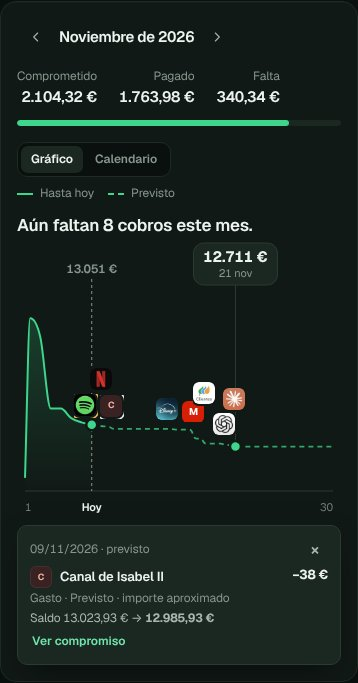
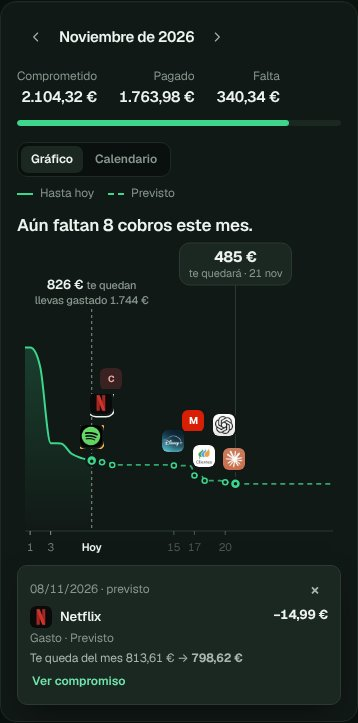
Base · gráfico del saldo sobre lo cobrado este mes (propuesta, pendiente de que Eric la apruebe para develop)
- Escala: lo que te queda de lo cobrado este mes (saldo − saldo al empezar el
  mes, mismos números del motor); si cobras el día 1 la línea arranca en lo
  cobrado.
- Línea de hoy con «X € te quedan» y «llevas gastado Y €».
- Días apuntados en la línea de abajo (realizados y, más tenues, previstos).
- Logos a distintas alturas sin pisarse, unidos a su punto con un hilo fino,
  translúcido y algo difuminado.
- Ficha y tabla accesible en la misma escala; e2e saldo actualizado.

Claude-Session: https://claude.ai/code/session_01WW9gW3XfdrtPaSgWp5DoDx

diff --git a/src/components/v5/GraficoSaldo.jsx b/src/components/v5/GraficoSaldo.jsx
@@ -6,7 +6,10 @@ import { colocarEtiquetas } from '../../lib/etiquetasGrafico'
 import { TablaDatos, useDimensiones } from './Graficos'
 import Avatar from './Avatar'
 
-// SALDO DEL MES (Base · vista Gráfico), en limpio y visual:
+// SALDO DEL MES (Base · vista Gráfico), en limpio y visual. Escala: lo que te
+// queda de lo cobrado ESTE MES (saldo − saldo al empezar el mes): empieza en 0,
+// sube con lo que cobras y baja con lo que sale. Mismos números del motor
+// (flujoDelMes/bolsas), solo medidos desde el inicio del mes.
 //  - área suave = saldo real hasta hoy; línea discontinua = previsto, que baja
 //    (o sube) en escalones redondeados en la fecha de cada cobro;
 //  - el LOGO de cada cobro previsto flota sobre su escalón (sin textos: la
@@ -55,7 +58,7 @@ function curva(p) {
   return r
 }
 
-export default function GraficoSaldo({ flujo, alto = 280, onAbrirCompromiso }) {
+export default function GraficoSaldo({ flujo, alto = 320, onAbrirCompromiso }) {
   const { ref, w } = useDimensiones(alto)
   const h = alto
   const estrecho = w < 520
@@ -64,7 +67,7 @@ export default function GraficoSaldo({ flujo, alto = 280, onAbrirCompromiso }) {
   useEffect(() => setSel(null), [flujo.clave])
 
   const LOGO = estrecho ? 22 : 26
-  const M = { izq: 8, der: 8, arriba: 64, abajo: 26 }
+  const M = { izq: 8, der: 8, arriba: 92, abajo: 26 }
   const ancho = w - M.izq - M.der
   const altoPlot = h - M.arriba - M.abajo
   const { dias, eventos, tramo } = flujo
@@ -73,7 +76,10 @@ export default function GraficoSaldo({ flujo, alto = 280, onAbrirCompromiso }) {
   const xIni = M.izq
   const xFin = M.izq + ancho
 
-  const saldos = [flujo.saldoInicial, flujo.saldoFinal, ...(flujo.saldoHoy != null ? [flujo.saldoHoy] : []), ...eventos.flatMap((e) => [e.saldoAntes, e.saldoDespues])]
+  // Base de la escala: el saldo al empezar el mes (0 = nada cobrado aún).
+  const base0 = flujo.saldoInicial
+  const rel = (v) => Math.round((v - base0) * 100) / 100
+  const saldos = [base0, flujo.saldoFinal, ...(flujo.saldoHoy != null ? [flujo.saldoHoy] : []), ...eventos.flatMap((e) => [e.saldoAntes, e.saldoDespues])]
   const lo = Math.min(...saldos)
   const hi = Math.max(...saldos)
   const aire = (hi - lo || Math.abs(hi) || 100) * 0.08
@@ -102,7 +108,8 @@ export default function GraficoSaldo({ flujo, alto = 280, onAbrirCompromiso }) {
   if (diaFinReal > 0) {
     let s = flujo.saldoInicial
     const porDia = new Map(reales.map((g) => [g.dia, g.despues]))
-    puntosReal.push([xIni, y(s)])
+    // Si el día 1 ya entra dinero (la nómina), la línea arranca ahí: en lo cobrado.
+    puntosReal.push([xIni, y(porDia.has(1) && porDia.get(1) > s ? porDia.get(1) : s)])
     for (let d = 1; d <= diaFinReal; d++) {
       if (porDia.has(d)) s = porDia.get(d)
       if (porDia.has(d) || d === diaFinReal) puntosReal.push([x(d), y(s)])
@@ -133,28 +140,49 @@ export default function GraficoSaldo({ flujo, alto = 280, onAbrirCompromiso }) {
     lineaPrev += ` L${xFin.toFixed(1)} ${cy.toFixed(1)}`
   }
 
-  // Logos de lo previsto sobre su escalón, sin pisarse (varios el mismo día:
-  // el principal con «+N»).
+  // Logos de lo previsto: encima de su punto, a distintas alturas para no
+  // pisarse, unidos al gráfico con un hilo fino (varios el mismo día: «+N»).
   const logos = useMemo(() => {
-    const items = previstos.map((g) => {
-      const principal = [...g.eventos].sort((a, b) => Math.abs(b.delta) - Math.abs(a.delta) || b.importe - a.importe)[0]
-      return { id: g.clave, x: x(g.dia), ancho: LOGO + (g.eventos.length > 1 ? 16 : 0), prioridad: Math.abs(g.despues - g.antes) + g.eventos.reduce((s, e) => s + e.importe, 0) / 1000, g, principal }
-    })
-    // Hasta 3 filas: lo que no cabe en una sube a la siguiente (nunca se pierde un logo).
-    const salida = []
-    let quedan = items
-    for (let fila = 0; fila < 3 && quedan.length; fila++) {
-      const puestas = colocarEtiquetas(quedan, { min: M.izq, max: w - M.der, separacion: 3, maxDesplazamiento: LOGO * 0.6, paso: 2 })
-      const ids = new Set(puestas.map((p) => p.id))
-      for (const p of puestas) salida.push({ ...quedan.find((i) => i.id === p.id), lx: p.x, fila })
-      quedan = quedan.filter((i) => !ids.has(i.id))
+    const items = previstos
+      .map((g) => {
+        const principal = [...g.eventos].sort((a, b) => Math.abs(b.delta) - Math.abs(a.delta) || b.importe - a.importe)[0]
+        return { id: g.clave, px: x(g.dia), py: y(g.despues), ancho: LOGO + (g.eventos.length > 1 ? 16 : 0), g, principal }
+      })
+      .sort((a, b) => a.px - b.px)
+    const puestos = []
+    for (const it of items) {
+      let nivel = 0
+      while (nivel < 4 && puestos.some((p) => p.nivel === nivel && Math.abs(p.px - it.px) < (p.ancho + it.ancho) / 2 + 4)) nivel++
+      const cy = Math.max(M.arriba - 4 + LOGO / 2, it.py - 24 - nivel * (LOGO + 10))
+      puestos.push({ ...it, nivel, lx: Math.min(Math.max(it.px, M.izq + it.ancho / 2), w - M.der - it.ancho / 2), cy })
     }
-    return salida
-  }, [previstos.map((g) => g.clave).join('|'), w, flujo.clave]) // eslint-disable-line react-hooks/exhaustive-deps
+    return puestos
+  }, [previstos.map((g) => g.clave + g.despues).join('|'), w, flujo.clave, vMin, vMax]) // eslint-disable-line react-hooks/exhaustive-deps
+
+  // Días apuntados en la línea de abajo (sin pisarse; manda «Hoy»).
+  const diasEje = useMemo(() => {
+    const porDia = new Map()
+    for (const g of grupos) {
+      const prev = porDia.get(g.dia)
+      const peso = Math.abs(g.despues - g.antes) + (g.tipo === 'prev' ? 1e6 : 0)
+      if (!prev || peso > prev.peso) porDia.set(g.dia, { dia: g.dia, tipo: g.tipo, peso })
+    }
+    const sep = estrecho ? 15 : 18
+    const puestos = diaHoy ? [{ dia: diaHoy, hoy: true }] : []
+    for (const d of [...porDia.values()].sort((a, b) => b.peso - a.peso)) {
+      if (puestos.some((p) => Math.abs(x(p.dia) - x(d.dia)) < sep + (p.hoy ? 8 : 0))) continue
+      puestos.push(d)
+    }
+    return puestos.filter((p) => !p.hoy)
+  }, [grupos, w, diaHoy]) // eslint-disable-line react-hooks/exhaustive-deps
+
+  // Llevas gastado (todo lo que ha salido este mes hasta hoy) y cobrado.
+  const realizados = eventos.filter((e) => e.estado === 'realizado')
+  const gastado = realizados.reduce((s, e) => s + (e.delta < 0 ? Math.round(-e.delta * 100) : 0), 0) / 100
 
   // Cifra final: tras el último cobro previsto (o al cierre si el mes pasó).
   const ultimo = previstos.at(-1)
-  const final = tramo === 'pasado' ? { x: xFin - 2, v: flujo.saldoFinal, etq: 'al cerrar' } : ultimo ? { x: x(ultimo.dia), v: ultimo.despues, etq: diaCorto(ultimo.eventos[0].fecha) } : null
+  const final = tramo === 'pasado' ? { x: xFin - 2, v: flujo.saldoFinal, etq: 'te quedó al cerrar' } : ultimo ? { x: x(ultimo.dia), v: ultimo.despues, etq: `te quedará · ${diaCorto(ultimo.eventos[0].fecha)}` } : null
 
   const grupoSel = grupos.find((g) => g.clave === sel) ?? null
   function tocarFondo(e) {
@@ -199,7 +227,7 @@ export default function GraficoSaldo({ flujo, alto = 280, onAbrirCompromiso }) {
               {e.aproximado ? ' · importe aproximado' : ''}
             </small>
             <small className="num v5-saldo-ficha-saldo">
-              Saldo {formatearEuros(e.saldoAntes)} → <b>{formatearEuros(e.saldoDespues)}</b>
+              Te queda del mes {formatearEuros(rel(e.saldoAntes))} → <b>{formatearEuros(rel(e.saldoDespues))}</b>
               {e.delta === 0 && e.clase === 'traspaso' ? ' (sigue siendo tuyo: no cambia)' : ''}
             </small>
             {e.rec && onAbrirCompromiso && (
@@ -213,12 +241,15 @@ export default function GraficoSaldo({ flujo, alto = 280, onAbrirCompromiso }) {
     </div>
   )
 
-  const badgeW = estrecho ? 84 : 96
+  const badgeW = estrecho ? 112 : 128
   const badgeCx = final ? Math.min(Math.max(final.x, M.izq + badgeW / 2), xFin - badgeW / 2) : 0
   return (
     <figure className="v5-graf v5-saldo" ref={ref} aria-label="Evolución del saldo del mes">
       <svg width={w} height={h} role="img" aria-label="Saldo hasta hoy y previsto del mes">
         <defs>
+          <filter id={`${idGrad}-hilo`} x="-50%" y="-5%" width="200%" height="110%">
+            <feGaussianBlur stdDeviation="0.45" />
+          </filter>
           <linearGradient id={idGrad} x1="0" y1="0" x2="0" y2="1">
             <stop offset="0%" stopColor="var(--accent)" stopOpacity="0.2" />
             <stop offset="100%" stopColor="var(--accent)" stopOpacity="0" />
@@ -229,9 +260,12 @@ export default function GraficoSaldo({ flujo, alto = 280, onAbrirCompromiso }) {
         {areaReal && <path d={areaReal} fill={`url(#${idGrad})`} pointerEvents="none" />}
         {diaHoy && (
           <g pointerEvents="none">
-            <line x1={x(diaHoy)} x2={x(diaHoy)} y1={M.arriba - 22} y2={base} className="v5-graf-guia" />
-            <text x={x(diaHoy)} y={M.arriba - 28} textAnchor="middle" className="v5-saldo-hoy num">
-              {redondo(flujo.saldoHoy)}
+            <line x1={x(diaHoy)} x2={x(diaHoy)} y1={M.arriba - 20} y2={base} className="v5-graf-guia" />
+            <text x={Math.min(Math.max(x(diaHoy), M.izq + 60), xFin - 60)} y={M.arriba - 40} textAnchor="middle" className="v5-saldo-hoy num">
+              {redondo(rel(flujo.saldoHoy))} <tspan className="v5-saldo-hoy-sub">te quedan</tspan>
+            </text>
+            <text x={Math.min(Math.max(x(diaHoy), M.izq + 60), xFin - 60)} y={M.arriba - 25} textAnchor="middle" className="v5-saldo-hoy-sub num">
+              llevas gastado {redondo(gastado)}
             </text>
           </g>
         )}
@@ -244,7 +278,7 @@ export default function GraficoSaldo({ flujo, alto = 280, onAbrirCompromiso }) {
             <line x1={final.x} x2={final.x} y1={48} y2={y(final.v)} className="v5-saldo-final-guia" />
             <rect x={badgeCx - badgeW / 2} y={6} width={badgeW} height={42} rx={10} />
             <text x={badgeCx} y={25} textAnchor="middle" className="v5-saldo-final-v num">
-              {redondo(final.v)}
+              {redondo(rel(final.v))}
             </text>
             <text x={badgeCx} y={40} textAnchor="middle" className="v5-saldo-final-f">
               {final.etq}
@@ -253,44 +287,45 @@ export default function GraficoSaldo({ flujo, alto = 280, onAbrirCompromiso }) {
           </g>
         )}
 
-        {logos.map((l) => {
-          const ly = Math.min(y(l.g.antes), y(l.g.despues)) - LOGO / 2 - 8 - l.fila * (LOGO + 4)
-          return (
-            <foreignObject key={l.id} x={l.lx - l.ancho / 2 - 1} y={ly - LOGO / 2 - 1} width={l.ancho + 2} height={LOGO + 2}>
-              <button
-                type="button"
-                className={`v5-saldo-logo ${sel === l.id ? 'sel' : ''} ${l.principal.estado === 'por-confirmar' ? 'atencion' : ''}`}
-                onClick={() => setSel(sel === l.id ? null : l.id)}
-                aria-label={`${l.principal.nombre}${l.g.eventos.length > 1 ? ` y ${l.g.eventos.length - 1} más` : ''}, ${formatearFecha(l.g.eventos[0].fecha)}, ${firma(l.principal.tipo === 'ingreso' ? l.principal.importe : -l.principal.importe)}`}
-              >
-                <Avatar nombre={l.principal.nombre} tam={LOGO} />
-                {l.g.eventos.length > 1 && <span className="v5-saldo-logo-mas">+{l.g.eventos.length - 1}</span>}
-              </button>
-            </foreignObject>
-          )
-        })}
+        {logos.map((l) => (
+          <g key={`h-${l.id}`} pointerEvents="none">
+            <line x1={l.lx} x2={l.px} y1={l.cy + LOGO / 2} y2={l.py} className="v5-saldo-hilo" filter={`url(#${idGrad}-hilo)`} />
+            <circle cx={l.px} cy={l.py} r="2.5" className="v5-saldo-pie" />
+          </g>
+        ))}
+        {logos.map((l) => (
+          <foreignObject key={l.id} x={l.lx - l.ancho / 2 - 1} y={l.cy - LOGO / 2 - 1} width={l.ancho + 2} height={LOGO + 2}>
+            <button
+              type="button"
+              className={`v5-saldo-logo ${sel === l.id ? 'sel' : ''} ${l.principal.estado === 'por-confirmar' ? 'atencion' : ''}`}
+              onClick={() => setSel(sel === l.id ? null : l.id)}
+              aria-label={`${l.principal.nombre}${l.g.eventos.length > 1 ? ` y ${l.g.eventos.length - 1} más` : ''}, ${formatearFecha(l.g.eventos[0].fecha)}, ${firma(l.principal.tipo === 'ingreso' ? l.principal.importe : -l.principal.importe)}`}
+            >
+              <Avatar nombre={l.principal.nombre} tam={LOGO} />
+              {l.g.eventos.length > 1 && <span className="v5-saldo-logo-mas">+{l.g.eventos.length - 1}</span>}
+            </button>
+          </foreignObject>
+        ))}
 
-        {(diaHoy == null || diaHoy > 3) && (
-          <text x={xIni} y={h - 6} className="v5-graf-eje" textAnchor="start" pointerEvents="none">
-            1
-          </text>
-        )}
+        {diasEje.map((d) => (
+          <g key={`d-${d.dia}`} pointerEvents="none">
+            <line x1={x(d.dia)} x2={x(d.dia)} y1={base} y2={base + 4} className={`v5-saldo-marca ${d.tipo === 'prev' ? 'prev' : ''}`} />
+            <text x={x(d.dia)} y={h - 6} className={`v5-graf-eje ${d.tipo === 'prev' ? 'v5-saldo-dia-prev' : ''}`} textAnchor="middle">
+              {d.dia}
+            </text>
+          </g>
+        ))}
         {diaHoy && (
           <text x={x(diaHoy)} y={h - 6} className="v5-graf-eje fuerte" textAnchor="middle" pointerEvents="none">
             Hoy
-          </text>
-        )}
-        {(diaHoy == null || dias - diaHoy > 3) && (
-          <text x={xFin} y={h - 6} className="v5-graf-eje" textAnchor="end" pointerEvents="none">
-            {dias}
           </text>
         )}
       </svg>
       {ficha}
       <TablaDatos
         titulo="Movimientos del mes y saldo"
-        cabecera={['Fecha', 'Movimiento', 'Estado', 'Importe', 'Saldo después']}
-        filas={eventos.map((e) => [formatearFecha(e.fecha), e.nombre, ESTADO[e.estado], firma(e.tipo === 'ingreso' ? e.importe : -e.importe), formatearEuros(e.saldoDespues)])}
+        cabecera={['Fecha', 'Movimiento', 'Estado', 'Importe', 'Te queda del mes']}
+        filas={eventos.map((e) => [formatearFecha(e.fecha), e.nombre, ESTADO[e.estado], firma(e.tipo === 'ingreso' ? e.importe : -e.importe), formatearEuros(rel(e.saldoDespues))])}
       />
     </figure>
   )

diff --git a/src/diseno-v5.css b/src/diseno-v5.css
@@ -2355,6 +2355,36 @@
   font-size: 12px;
   font-weight: 600;
 }
+.v5-saldo-hoy .v5-saldo-hoy-sub,
+.v5-saldo-hoy-sub {
+  fill: var(--text-3);
+  font-size: 11px;
+  font-weight: 500;
+}
+.v5-saldo-hoy {
+  fill: var(--text-h);
+  font-size: 13px;
+}
+.v5-saldo-hilo {
+  stroke: var(--text-2);
+  stroke-width: 0.8;
+  opacity: 0.35;
+}
+.v5-saldo-pie {
+  fill: var(--card-bg);
+  stroke: var(--accent);
+  stroke-width: 1.5;
+}
+.v5-saldo-marca {
+  stroke: var(--text-3);
+  stroke-width: 1;
+}
+.v5-saldo-marca.prev {
+  opacity: 0.5;
+}
+.v5-saldo-dia-prev {
+  opacity: 0.6;
+}
 .v5-saldo-final rect {
   fill: var(--superficie-3);
   stroke: var(--borde-fuerte);
